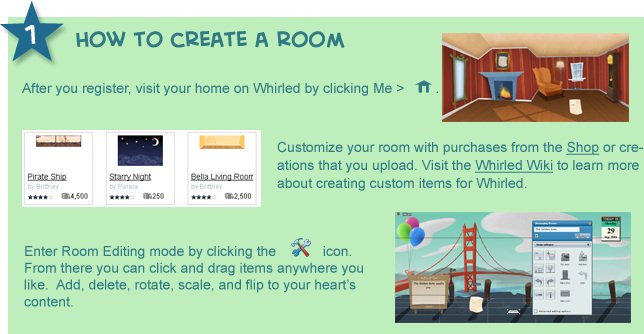
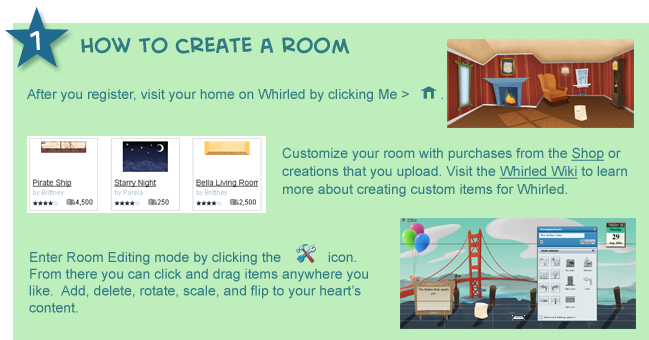
Finish content for steps 2 and 3 of dA contest.  Rooms to display down the right are still TBD.

Changed region(s): [[0.0, 0.0, 1.0, 1.0], [0.5901, 0.6287, 0.9938, 0.988]]

diff --git a/src/gwt/public/landing/landing.css b/src/gwt/public/landing/landing.css
@@ -473,7 +473,7 @@
   top: 0;
   left: 0;
   font-family: Arial, Helvetica, sans-serif;
-  font-size: 12px;
+  font-size: 13px;
 }
 
 /* Spans the entire width of the page */
@@ -485,9 +485,10 @@
 }
 
 .daContestPanel .HowToEnter {
-  background: url(/images/landing/dacontest_howtoenter_bg.png) no-repeat;
-  height: 432px;
-  width: 650px;
+  background: url(/images/landing/dacontest_howtoenter.png) no-repeat;
+  height: 406px;
+  width: 646px;
+  margin-top: 10px;
 }
 
 .daContestPanel .HowToEnter .longThickOrangeButton,
@@ -504,7 +505,7 @@
 
 .daContestPanel .Rooms .RoomsList {
   background: url(/images/landing/dacontest_rooms_middle.png) repeat-y;
-  min-height: 700px;
+  height: 1514px;
   text-align: center;
 }
 
@@ -515,34 +516,55 @@
 
 .daContestPanel .Rooms .RoomImage {
   margin: auto;
-  padding: 10px 0;
+  padding: 20px 0 5px 0;
 }
 
 .daContestPanel .Step1,
 .daContestPanel .Step2,
 .daContestPanel .Step3 {
-  width: 664px;
-  margin-bottom: 10px;
+  width: 649px;
 }
 
 .daContestPanel .Step1 {
   background: url(/images/landing/dacontest_step_1.png) no-repeat;
-  height: 334px;
+  height: 340px;
 }
 
 .daContestPanel .Step2 {
   background: url(/images/landing/dacontest_step_2.png) no-repeat;
-  height: 307px;
+  height: 313px;
 }
 
 .daContestPanel .Step3 {
   background: url(/images/landing/dacontest_step_3.png) no-repeat;
-  height: 246px;
+  height: 515px;
 }
 
 .daContestPanel .Rules {
-  background: url(/images/landing/dacontest_rules.png) no-repeat;
+  background: url(/images/landing/dacontest_rules_bg.png) no-repeat;
   width: 859px;
   height: 339px;
   margin: 10px 0 20px 10px;
+  color: #656565;
+}
+
+.daContestPanel .Rules a {
+  color: #27a1d9;
+  font-weight: bold;
+}
+
+.daContestPanel .Rules ul {
+  margin: 0;
+}
+
+.daContestPanel .Rules li {
+  list-style-image: url(/images/landing/dacontest_rules_star.png);
+  width: 320px;
+  margin: 0 0 15px 15px;
+  line-height: 18px;
+  padding-left: 10px;
+}
+
+.daContestPanel .Rules .Judging {
+  width: 340px;
 }

diff --git a/src/gwt/client/landing/DAContestPanel.java b/src/gwt/client/landing/DAContestPanel.java
@@ -3,6 +3,7 @@
 
 package client.landing;
 
+import com.google.gwt.core.client.GWT;
 import com.google.gwt.user.client.Window;
 import com.google.gwt.user.client.ui.AbsolutePanel;
 import com.google.gwt.user.client.ui.ClickListener;
@@ -17,8 +18,10 @@ import client.ui.MsoyUI;
 import client.util.Link;
 
 /**
- * Landing page for the Deviant Art "Design Your Whirled" contest. Most content is in images, and
- * many contain English text at fixed sizes.
+ * Landing page for the Deviant Art "Design Your Whirled" contest. Images contain English text at
+ * fixed sizes. Production-specific content links are present here and in
+ * LandingMessages.properties. This contest will be live for three weeks starting 10/24/2008, then
+ * permanently taken down.
  */
 public class DAContestPanel extends SimplePanel
 {
@@ -42,43 +45,56 @@ public class DAContestPanel extends SimplePanel
             String roomName = COOL_ROOM_NAMES[ii];
             String roomImageURL = "/images/landing/dacontest_room_" + sceneId + ".png";
             ClickListener onClick = Link.createListener(Pages.WORLD, "s" + sceneId);
-            roomsList.add(MsoyUI.createImage(roomImageURL, "RoomImage"));
+            Image roomImage = MsoyUI.createActionImage(roomImageURL, roomName, onClick);
+            roomImage.addStyleName("RoomImage");
+            roomsList.add(roomImage);
             roomsList.add(MsoyUI.createActionLabel(roomName, "RoomName", onClick));
         }
         rooms.add(new Image("/images/landing/dacontest_rooms_bottom.png"));
 
-        // TODO make anything else in this panel a link or text?
+        // how to enter and step panels are large images that include text
         AbsolutePanel howToEnter = MsoyUI.createAbsolutePanel("HowToEnter");
         content.add(howToEnter);
         howToEnter.add(MsoyUI.createButton(MsoyUI.LONG_THICK, "Join Whirled!",
-            Link.createListener(Pages.ACCOUNT, "create")), 455, 370);
+            Link.createListener(Pages.ACCOUNT, "create")), 455, 345);
 
         AbsolutePanel step1 = MsoyUI.createAbsolutePanel("Step1");
         content.add(step1);
-        // TODO Make text and links ActionLabels when content is finalized
-        step1.add(createInvisiLink(Link.createListener(Pages.SHOP, "3"), 60, 30), 550, 130);
-        step1.add(createInvisiLink(new ClickListener() {
-            public void onClick (Widget sender) {
-                Window.open("http://wiki.whirled.com/", "_blank", null);
-            }
-        }, 100, 30), 460, 150);
+        step1.add(createInvisiLink(Link.createListener(Pages.SHOP, "3"), 50, 20), 560, 145);
+        step1.add(createInvisiLink("http://wiki.whirled.com/", 90, 20), 490, 160);
 
         AbsolutePanel step2 = MsoyUI.createAbsolutePanel("Step2");
         content.add(step2);
 
         AbsolutePanel step3 = MsoyUI.createAbsolutePanel("Step3");
         content.add(step3);
+        step3.add(createInvisiLink(
+            "http://www.deviantart.com/#catpath=projects/contests/2008/whirled", 290, 20), 30,
+            480);
 
+        // Rules are in text
         AbsolutePanel rules = MsoyUI.createAbsolutePanel("Rules");
         content.add(rules);
-        // TODO make a bigger button as in mockup
-        rules.add(MsoyUI.createButton(MsoyUI.LONG_THICK, "Join Whirled!", Link.createListener(
-            Pages.ACCOUNT, "create")), 570, 220);
-        rules.add(createInvisiLink(new ClickListener() {
+        rules.add(MsoyUI.createHTML(_msgs.dacontestRules(), null), 70, 70);
+        rules.add(MsoyUI.createHTML(_msgs.dacontestJudging(), "Judging"), 450, 80);
+        rules.add(MsoyUI.createActionImage("/images/landing/dacontest_rules_join.png",
+            Link.createListener(Pages.ACCOUNT, "create")), 540, 200);
+
+        // tools icon sits over everything
+        content.add(new Image("/images/landing/dacontest_tools.png"), 130, 110);
+    }
+
+    /**
+     * Helper function for creating an invisible area of a given size with a given offsite link
+     * that will be opened in a new window.
+     */
+    protected Widget createInvisiLink (final String offsiteLinkPath, int width, int height)
+    {
+        return createInvisiLink(new ClickListener() {
             public void onClick (Widget sender) {
-                Window.open("http://wiki.whirled.com/", "_blank", null);
+                Window.open(offsiteLinkPath, "_blank", null);
             }
-        }, 70, 30), 110, 280);
+        }, width, height);
     }
 
     /**
@@ -94,7 +110,10 @@ public class DAContestPanel extends SimplePanel
     }
 
     /** Scenes to display under "check out these cool rooms!"; images are indexed by id */
-    protected static final int[] COOL_ROOM_IDS = { 1, 2, 3 };
+    protected static final int[] COOL_ROOM_IDS = { 1, 2, 3, 1, 2, 3, 1, 2, 3, 1 };
     protected static final String[] COOL_ROOM_NAMES = { "OOO Tentacles", "Club Bella",
-        "Corpse Craft" };
+        "Corpse Craft", "OOO Tentacles", "Club Bella", "Corpse Craft", "OOO Tentacles",
+        "Club Bella", "Corpse Craft", "OOO Tentacles" };
+
+    protected static final LandingMessages _msgs = GWT.create(LandingMessages.class);
 }
